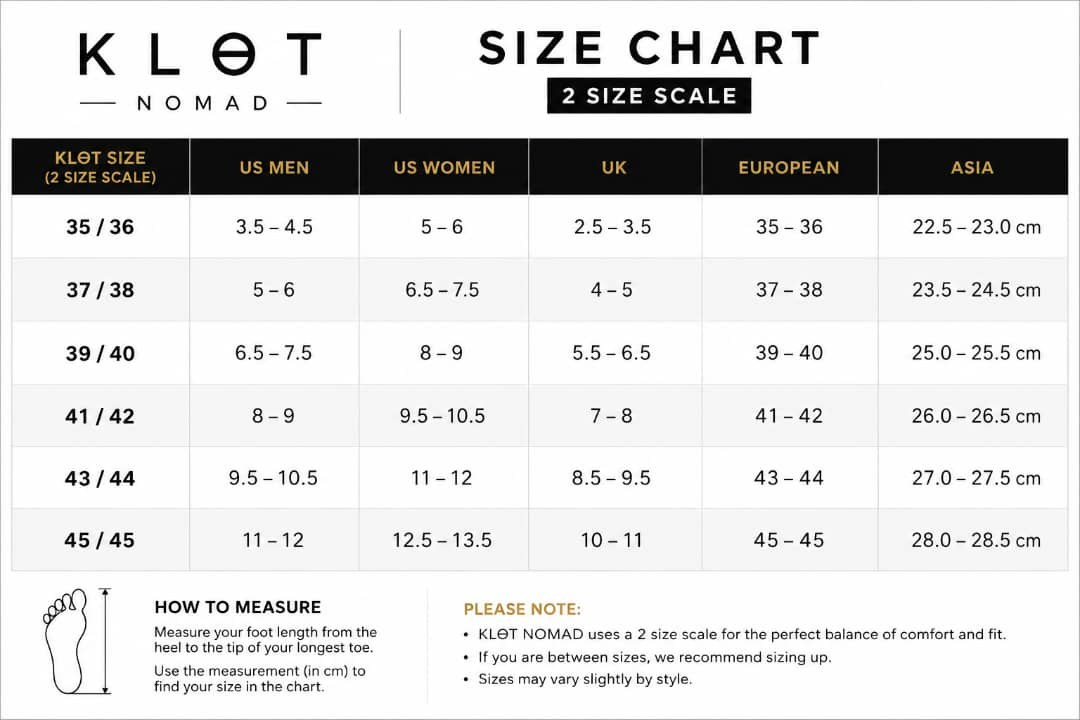
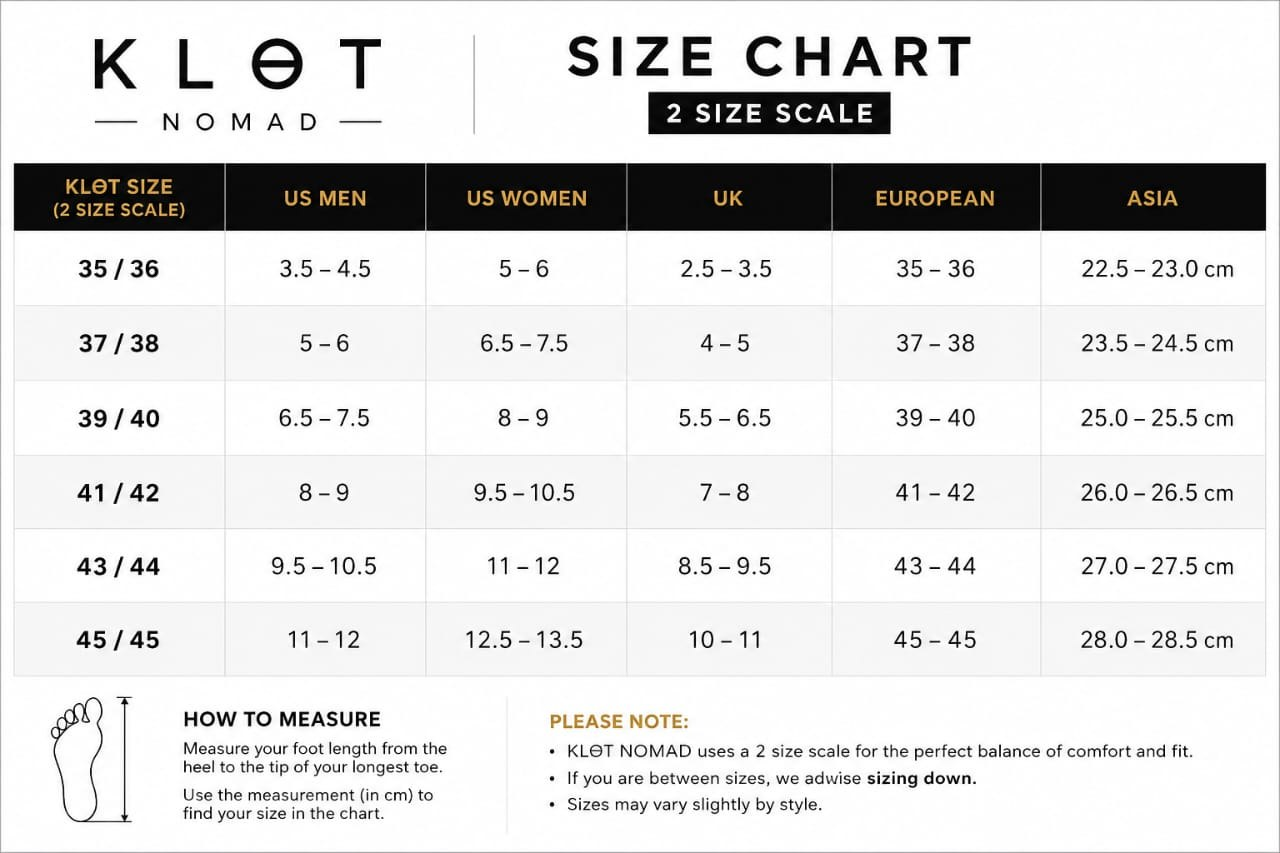
Update size chart image, add zoom, and mention free socks
Push the user's updated size chart (higher-res, "size down between
sizes" guidance replacing the old "size up") and sync the page's own
copy to match. Add a simple click-to-zoom modal for the chart image
(no library - local state, Escape/backdrop-click to close) since the
fine print is hard to read at inline size, especially on mobile.

Also add a small line under the price noting the free pair of KLΘT
5-finger socks included with every preorder - text only for now.

diff --git a/web/src/components/ZoomableImage.tsx b/web/src/components/ZoomableImage.tsx
@@ -1,0 +1,68 @@
+"use client";
+
+import { useEffect, useState } from "react";
+import Image from "next/image";
+
+export function ZoomableImage({
+  src,
+  alt,
+  width,
+  height,
+  className,
+}: {
+  src: string;
+  alt: string;
+  width: number;
+  height: number;
+  className?: string;
+}) {
+  const [open, setOpen] = useState(false);
+
+  useEffect(() => {
+    if (!open) return;
+    function onKey(e: KeyboardEvent) {
+      if (e.key === "Escape") setOpen(false);
+    }
+    window.addEventListener("keydown", onKey);
+    return () => window.removeEventListener("keydown", onKey);
+  }, [open]);
+
+  return (
+    <>
+      <button
+        type="button"
+        onClick={() => setOpen(true)}
+        aria-label={`Zoom in: ${alt}`}
+        className={`block w-full cursor-zoom-in ${className ?? ""}`}
+      >
+        <Image src={src} alt={alt} width={width} height={height} className="w-full h-auto" />
+      </button>
+
+      {open && (
+        <div
+          role="dialog"
+          aria-modal="true"
+          aria-label={alt}
+          onClick={() => setOpen(false)}
+          className="fixed inset-0 z-50 flex cursor-zoom-out items-center justify-center bg-foreground/90 p-4"
+        >
+          <Image
+            src={src}
+            alt={alt}
+            width={width}
+            height={height}
+            className="h-auto max-h-full w-auto max-w-full rounded-lg object-contain"
+          />
+          <button
+            type="button"
+            onClick={() => setOpen(false)}
+            aria-label="Close"
+            className="absolute right-4 top-4 flex h-11 w-11 items-center justify-center rounded-full bg-surface font-technical text-xl text-foreground ring-1 ring-line"
+          >
+            &times;
+          </button>
+        </div>
+      )}
+    </>
+  );
+}

diff --git a/web/src/app/size-guide/page.tsx b/web/src/app/size-guide/page.tsx
@@ -1,7 +1,7 @@
 import type { Metadata } from "next";
-import Image from "next/image";
 import { Header } from "@/components/Header";
 import { Footer } from "@/components/Footer";
+import { ZoomableImage } from "@/components/ZoomableImage";
 
 export const metadata: Metadata = {
   title: "Size Guide — KLΘT NOMAD",
@@ -28,18 +28,20 @@ export default function SizeGuidePage() {
           NOMAD runs on a two-size scale &mdash; each mold covers two
           consecutive EU sizes for the best balance of fit and comfort.
           Measure your foot length and match it against the chart below. If
-          you fall between sizes, we recommend sizing up.
+          you fall between sizes, we advise sizing down.
         </p>
 
         <div className="mt-10 overflow-hidden rounded-2xl ring-1 ring-line">
-          <Image
+          <ZoomableImage
             src="/images/guides/size-chart.jpg"
             alt="KLΘT NOMAD size chart: EU sizes 35–45 paired in a two-size scale (35/36 through 45/45), with US Men, US Women, UK, and Asia (cm) equivalents. Measure foot length from heel to the tip of the longest toe."
-            width={1080}
-            height={720}
-            className="w-full h-auto"
+            width={1280}
+            height={853}
           />
         </div>
+        <p className="mt-2 text-center font-technical text-xs text-muted">
+          Tap the chart to zoom in
+        </p>
 
         <p className="mt-8 text-sm text-muted leading-relaxed">
           Still unsure? Email{" "}

diff --git a/web/src/components/ProductView.tsx b/web/src/components/ProductView.tsx
@@ -228,6 +228,9 @@ export function ProductView({
             &middot; NGN available at checkout
           </span>
         </p>
+        <p className="mt-2 font-technical text-xs text-gold-ink">
+          Includes a free pair of KLΘT 5-finger socks
+        </p>
 
         {/* Colorway swatches */}
         <div className="mt-8">
